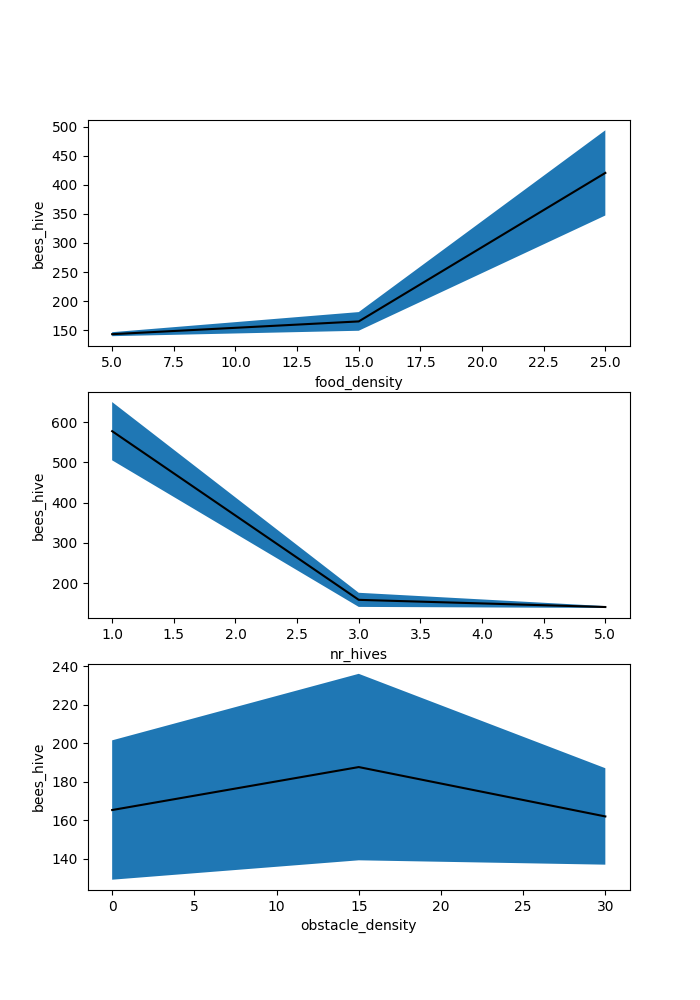
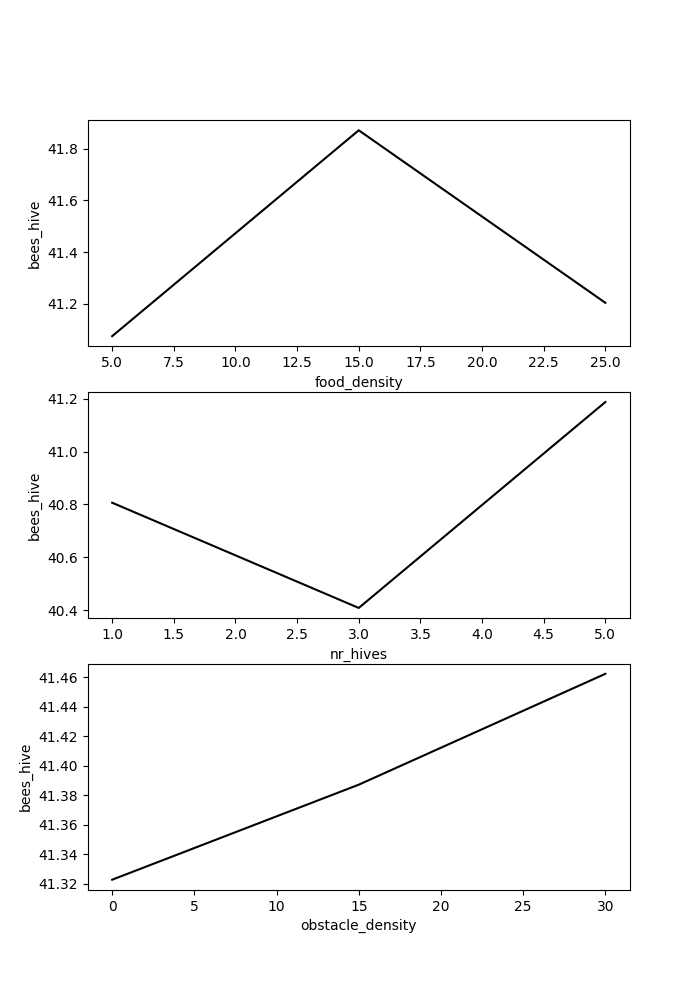
sobol still being weird

diff --git a/ofat.py b/ofat.py
@@ -1,17 +1,16 @@
-import os
-import pickle
-from datetime import datetime
-
-import matplotlib.pyplot as plt
-import numpy as np
 import pandas as pd
-from mesa.batchrunner import BatchRunnerMP
-
+import matplotlib.pyplot as plt
 import seaborn as sns
+import pickle
+import numpy as np
 from model import BeeForagingModel
+from mesa.batchrunner import BatchRunnerMP
+import os
+from datetime import datetime
 
 
 class OFAT():
+
     def __init__(self, time_stamp=False, warm_it=500):
         self.var_names = ['food_density', 'nr_hives', 'obstacle_density']
         self.warm_it = warm_it
@@ -21,6 +20,7 @@ class OFAT():
             self.time_stamp = time_stamp
 
     def run_ofat(self):
+
         # We define our variables and bounds
         params = {
             'obstacle_density': [0, 15, 30],
@@ -28,16 +28,10 @@ class OFAT():
             'nr_hives': [1, 3, 5]
         }
 
-<<<<<<< HEAD
-
         # Set the repetitions, the amount of steps, and the amount of distinct values per variable
 
-        replicates = 500
-=======
-        # Set the repetitions and the amount of steps
-        replicates = 400
->>>>>>> fc30fc0c4174ca55c6a81c96aed4ff10e2ae696c
-        max_steps = 3000
+        replicates = 1
+        max_steps = 30
 
         # Define output parameters
         model_reporters = {
@@ -47,7 +41,10 @@ class OFAT():
             'nr_hives': lambda m: m.nr_hives
         }
 
+        data = {}
+
         for var in params:
+
             batch = BatchRunnerMP(BeeForagingModel,
                                   max_steps=max_steps,
                                   nr_processes=os.cpu_count(),
@@ -57,40 +54,45 @@ class OFAT():
                                   display_progress=True)
 
             batch.run_all()
-
-            # Collect data from batch.
             data = batch.get_model_vars_dataframe()
             data.to_csv(f'pickles/{self.time_stamp}_{var}.csv')
             data.to_pickle(f'pickles/{self.time_stamp}_{var}.p')
 
     def data_prep(self):
+        """
+        unpacks nested pandas dataframe and creates dicts containing formatted dataframes
+        with average over samples per model step and average over steps per samples.
+
+        """
+
         self.step_dct = {}
         self.sample_dct = {}
-
         for name in self.var_names:
             df = pd.read_pickle(f'pickles/{self.time_stamp}_{name}.p')
-
             sample = 0
             final_dfs = []
             for i, row in df.iterrows():
+                # print(row)
                 df_temp = df.at[i, 'step_data']
-                df_temp['obstacle_density'] = row['obstacle_density']
-                df_temp['food_density'] = row['food_density']
-                df_temp['nr_hives'] = row['nr_hives']
-                df_temp['sample'] = row['Run']
-                df_temp['step'] = df_temp.index
+                print(type(df_temp))
+                df_temp.loc[:, 'obstacle_density'] = row['obstacle_density']
+                df_temp.loc[:, 'food_density'] = row['food_density']
+                df_temp.loc[:, 'nr_hives'] = row['nr_hives']
+                df_temp.loc[:, 'sample'] = row['Run']
+                df_temp.loc[:, 'step'] = df_temp.index
                 sample += 1
-                final_dfs.append(df_temp.iloc[self.warm_it-1:])
-
+                final_dfs.append(df_temp)
+                # final_dfs.append(df_temp.iloc[self.warm_it-1:])
             df_final = pd.concat(final_dfs)
-            df_new = df_final[['nr_hives', 'food_density', 'obstacle_density', 'sample', 'step']]
-            df_new['scout_forage'] = (df_final['scout_bees'] - df_final['forage_bees']) / (df_final['scout_bees'] + df_final['forage_bees'])
-            df_new['food_bee'] = df_final['hive_food'] / df_final['n_bees']
-            df_new['bees_hive'] = df_final['n_bees'] / df_final['nr_hives']
-
-            df_step = df_new.groupby(
-                ['obstacle_density', 'food_density', 'nr_hives', 'step']
-            ).agg({
+            df_new = df_final.loc[:,['nr_hives', 'food_density',
+                               'obstacle_density', 'sample', 'step']]
+            df_new.loc[:,'scout_forage'] = (df_final['scout_bees'] - df_final['forage_bees']) / (
+                df_final['scout_bees'] + df_final['forage_bees'])
+            df_new.loc[:,'food_bee'] = df_final['hive_food'] / \
+                df_final['n_bees']
+            df_new.loc[:,'bees_hive'] = df_final['n_bees'] / \
+                df_final['nr_hives']
+            df_step = df_new.groupby(['obstacle_density', 'food_density', 'nr_hives', 'step']).agg({
                 'food_bee': ['mean', 'std'],
                 'scout_forage': ['mean', 'std'],
                 'bees_hive': ['mean', 'std']
@@ -99,43 +101,35 @@ class OFAT():
             df_step = df_step.reset_index()
             df_step.columns = ['_'.join(col) if col[1] else col[0]
                                for col in df_step.columns]
-
             self.step_dct[name] = df_step
             df_step.to_pickle(f'pickles/step_{name}_{self.time_stamp}.p')
 
-            df_sample = df_new.groupby(
-                ['obstacle_density', 'food_density', 'nr_hives', 'sample']
-            )[['food_bee', 'scout_forage', 'bees_hive']].mean()
+            df_sample = df_new.groupby(['obstacle_density', 'food_density', 'nr_hives', 'sample'])[
+                ['food_bee', 'scout_forage', 'bees_hive']].mean()
+            # print(df_sample)
 
             df_sample = df_sample.reset_index()
             df_step.to_pickle(f'pickles/sample_{name}_{self.time_stamp}.p')
             self.sample_dct[name] = df_sample
-
         return self.sample_dct, self.step_dct
 
     def make_pwetty_plots(self, df_new):
-        sns_plot = sns.lineplot(x="step",
-                                y="food_bee",
-                                hue="nr_hives",
-                                data=df_new)
+        sns_plot = sns.lineplot(x="step", y="food_bee",
+                                hue="nr_hives", data=df_new)
         plt.savefig('plots/plot2.png')
-<<<<<<< HEAD
-            
+
     def get_ofat(self):
         """
 
         """
-=======
->>>>>>> fc30fc0c4174ca55c6a81c96aed4ff10e2ae696c
 
-    def get_ofat(self):
         self.ofat_dict, self.df_plot = self.data_prep()
 
         for param in ('food_bee', 'scout_forage', 'bees_hive'):
             self.plot_all_vars(param)
             plt.savefig(f'plots/test_ofat_{param}.png')
 
-    def plot_param_var_conf(self, ax, df, var, param, i):
+    def plot_param_var_conf(self, ax, df, var, param):
         """
         Helper function for plot_all_vars. Plots the individual parameter vs
         variables passed.
@@ -146,6 +140,7 @@ class OFAT():
             var: variables to be taken from the dataframe
             param: which output variable to plot
         """
+        # print(df)
         x = df.groupby(var).mean().reset_index()[var]
         y = df.groupby(var).mean()[param]
 
@@ -166,6 +161,7 @@ class OFAT():
             df: dataframe that holds all data
             param: the parameter to be plotted
         """
+
         f, axs = plt.subplots(3, figsize=(7, 10))
 
         for i, var in enumerate(self.var_names):
@@ -173,6 +169,6 @@ class OFAT():
 
 
 if __name__ == "__main__":
-    ofat_obj = OFAT()
-    ofat_obj.run_ofat()
-    ofat_obj.get_ofat()
+   ofat_obj = OFAT()
+   ofat_obj.run_ofat()
+   ofat_obj.get_ofat()

diff --git a/analysis.py b/analysis.py
@@ -22,9 +22,9 @@ def create_data(problem, new_path):
     """
 
     # Set the repetitions, the amount of steps, and the amount of distinct values per variable
-    replicates = 20
-    max_steps = 3000
-    distinct_samples= 4
+    replicates = 1
+    max_steps = 10
+    distinct_samples= 1
 
     # Define output parameters
     model_reporters = {
@@ -37,16 +37,15 @@ def create_data(problem, new_path):
     data = {}
 
     # Sample from data with every interactions, computationally expensive but gives all combinations
-    params_values = saltelli.sample(problem,N=3)
+    params_values = saltelli.sample(problem,N=distinct_samples)
 
     # change nr of hives to ints -> looks ok 
-    for i, val in enumerate(params_values):
-        params_values[i][0] = int(val[0])
-    print(params_values)
+    # for i, val in enumerate(params_values):
+    #     params_values[i][0] = int(val[0])
+    # print(params_values)
 
     #transform to int value and overwrite array if copy needed set flag to True
     params_values = params_values.astype(int, copy=False)
-
     # test range of combinations
     # print(params_values[:][:,0], len(params_values))
 
@@ -74,8 +73,11 @@ def create_data(problem, new_path):
             pbar.update(counter)
     pbar.close()
     data = batch.get_model_vars_dataframe()
+
     data.to_csv(f'pickles/analysis_{new_path}.csv')
     data.to_pickle(f'pickles/analysis_{new_path}.p')
+    print('wat ben jij',type(data))
+    return data
 
 
 
@@ -89,37 +91,36 @@ def clean_data(data, new_path):
     """
 
     final_dfs = []
+    # print(type(data))
     for i, row in data.iterrows():
+        # print(type(row['step_data']), row['step_data'])
         df_temp = data.at[i, 'step_data']
+        print('----------------------------------')
+        print(df_temp, type(df_temp))
+
+        # print(type(df_temp), df_temp)
+        print('----------------------------------')
         df_temp['obstacle_dens'] = row['obstacle_density']
         df_temp['food_dens'] = row['food_density']
         df_temp['n_hives'] = row['nr_hives']
         df_temp['sample'] = row['Run']
         df_temp['step'] = df_temp.index
-        # final_dfs.append(df_temp)
-        final_dfs.append(df_temp.iloc[500:])
+        final_dfs.append(df_temp)
+        print('kom ik hiiiieeeeeeeer?')
+        # final_dfs.append(df_temp.iloc[500:])
     df_final = pd.concat(final_dfs)
-    
-    df_new = df_final[['n_hives', 'food_dens', 'obstacle_dens', 'step']]
+
     #TODO Fix create SettingWithcopyWarning, solution make a deepcopy of the result dataframe
-    df_test = df_new.copy(deep=True)
+    df_test = df_final.copy(deep=True)
     df_test.loc[:,'scout_forage'] = (df_final['scout_bees'] - df_final['forage_bees']) / (df_final['scout_bees'] + df_final['forage_bees'])
-    # df_new.is_copy = False Deprecated do not use
     df_test.loc[:,'food_bee'] = df_final['hive_food'] / df_final['n_bees']
     df_test.loc[:,'bees_hive'] = df_final['n_bees'] / df_final['n_hives']
-    # df_step = df_test.groupby(['obstacle_dens', 'food_dens', 'n_hives', 'step']).agg({
-    #                                                                                     'food_bee': ['mean', 'std'],
-    #                                                                                     'scout_forage': ['mean', 'std'],
-    #                                                                                     'bees_hive': ['mean', 'std']
-    #                                                                                     })
-    # df_step = df_step.reset_index()
-    # df_step.columns = ['_'.join(col) if col[1] else col[0] for col in df_step.columns]
     df_sample = df_test.groupby(['obstacle_dens', 'food_dens', 'n_hives', 'sample'])[
                 ['food_bee', 'scout_forage', 'bees_hive']].mean()
-            # print(df_sample)
+
 
     df_sample = df_sample.reset_index()
-    df_sample.columns = ['_'.join(col) if col[1] else col[0] for col in df_sample.columns]
+    print(df_sample)
     df_sample.to_pickle(f'pickles/sobol_small_sample_{new_path}.p')
 
     return df_sample
@@ -128,9 +129,9 @@ def clean_data(data, new_path):
 
 def analyse(data, problem):
 
-    Si_scout_forage = sobol.analyze(problem, data['scout_forage_mean'].values, print_to_console=False,n_processors=os.cpu_count(),parallel=True)
-    Si_food_bee = sobol.analyze(problem, data['food_bee_mean'].values, print_to_console=False,n_processors=os.cpu_count(), parallel=True)
-    Si_bee_hive = sobol.analyze(problem, data['bees_hive_mean'].values, print_to_console=False,n_processors=os.cpu_count(), parallel=True)
+    Si_scout_forage = sobol.analyze(problem, data['scout_forage'].values, print_to_console=False,n_processors=os.cpu_count(),parallel=True)
+    Si_food_bee = sobol.analyze(problem, data['food_bee'].values, print_to_console=False,n_processors=os.cpu_count(), parallel=True)
+    Si_bee_hive = sobol.analyze(problem, data['bees_hive'].values, print_to_console=False,n_processors=os.cpu_count(), parallel=True)
     print("Done")
     return Si_scout_forage, Si_food_bee, Si_bee_hive
 
@@ -188,8 +189,9 @@ if __name__ == "__main__":
     # Extract all the present CPU-thread for computation
     groups = np.arange(os.cpu_count())
 
+    dfs = []
     # to make multiple small batches 
-    for i in range(25):
+    for i in range(2):
         #path timestamp
         new_path = datetime.now().strftime('%Y%m%d%H%M')
 
@@ -201,12 +203,14 @@ if __name__ == "__main__":
             'groups':['G'+str(groups[1]),'G'+str(groups[2]),'G'+str(groups[3])] # for multiprocessing
         }
         df = create_data(problem, new_path)
+        dfs.append(df)
+    data = pd.concat(dfs)
     #TODO make this part interactive?
-
-    # # Change this right_path by running create_data. Mind that max_steps should be bigger.
-    # # right_path = '201902071158'
-    # # data = pd.read_pickle(f'pickles/sobol_sample_{new_path}.p')
-    # cl_data = clean_data(df, new_path)
-    # Si_scout_forage, Si_food_bee, Si_bee_hive = analyse(cl_data, problem)
-    # to_plot = [Si_scout_forage, Si_food_bee, Si_bee_hive]
-    # plot_sensitivity_order(to_plot, problem, new_path)
+    # print(df)
+    # Change this right_path by running create_data. Mind that max_steps should be bigger.
+    # right_path = '201902071158'
+    # data = pd.read_pickle(f'pickles/sobol_sample_{new_path}.p')
+    cl_data = clean_data(data, new_path)
+    Si_scout_forage, Si_food_bee, Si_bee_hive = analyse(cl_data, problem)
+    to_plot = [Si_scout_forage, Si_food_bee, Si_bee_hive]
+    plot_sensitivity_order(to_plot, problem, new_path)
